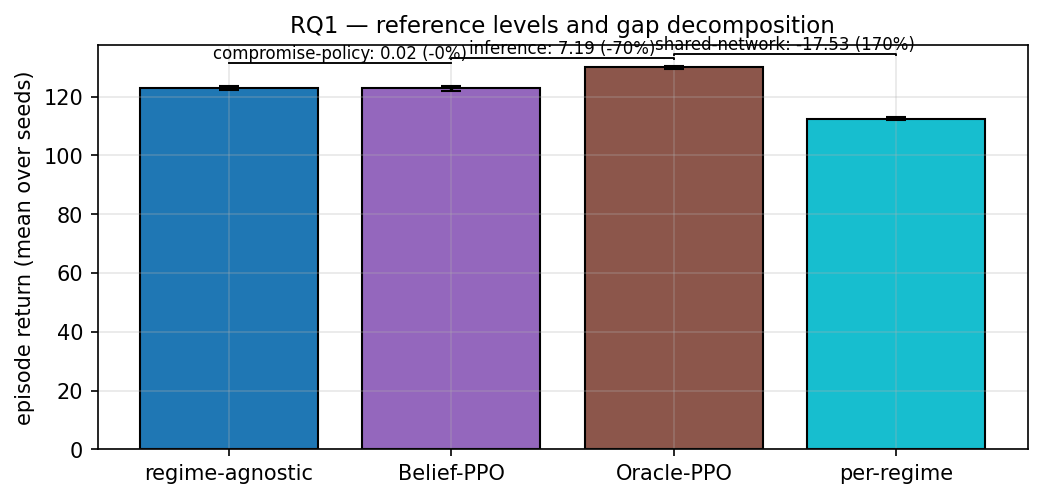
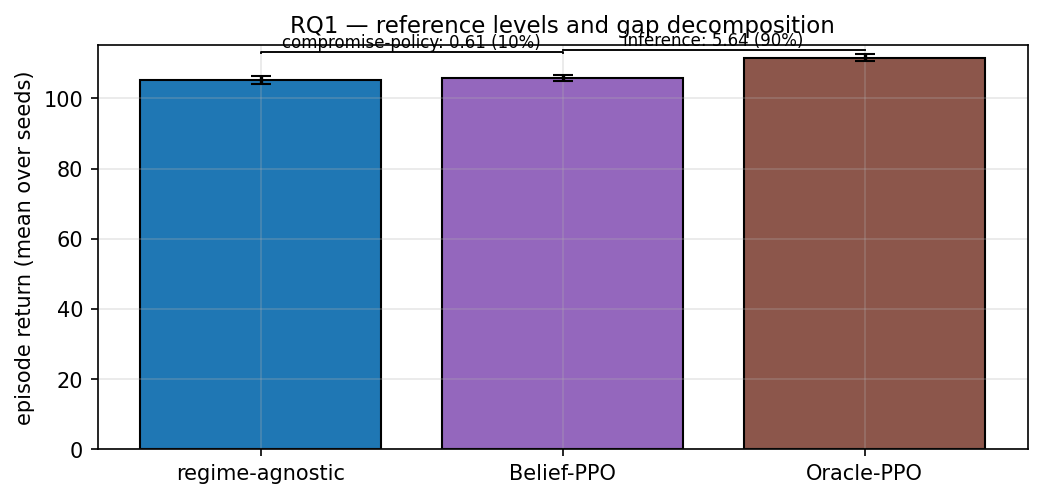
f

diff --git a/scripts/m3_belief_diagnostics.py b/scripts/m3_belief_diagnostics.py
@@ -1,0 +1,231 @@
+"""Diagnose why Belief-PPO ≈ Regime-agnostic PPO on E_final (M3 finding).
+
+Three tests, cheapest first:
+
+  D1 — structural sanity: log obs/posterior shape and variability across
+       timesteps of a single rollout. Catch shape / concatenation bugs.
+
+  D3 — posterior informativeness: run many rollouts under a uniform
+       random policy, compute posterior entropy statistics and regime
+       classification accuracy (argmax posterior vs true regime). If the
+       posterior rarely sharpens below uniform, no method can exploit it.
+
+  D2 — training ablation: train Belief-PPO with belief replaced by the
+       constant initial prior at every step. If the ablated return
+       matches unablated return, the network is ignoring the belief
+       (bug). Only run if D3 says the posterior is actually informative.
+
+Written to run on the current E_final (`experiments/configs/envs/e_final.yaml`)
+with no retraining for D1+D3. D2 retrains briefly.
+
+Usage:
+  uv run python -m scripts.m3_belief_diagnostics
+"""
+from __future__ import annotations
+
+import json
+import time
+from pathlib import Path
+
+import jax
+import jax.numpy as jnp
+import numpy as np
+
+from beliefs.hmm_posterior import entropy as belief_entropy
+from envs.mm_reduced import MMReducedEnv
+from envs.wrappers.belief_obs import BeliefObsEnv
+from training.config import _load_yaml_with_extends
+
+REPO_ROOT = Path(__file__).resolve().parent.parent
+ENV_CFG = REPO_ROOT / "experiments" / "configs" / "envs" / "e_final.yaml"
+OUT_PATH = REPO_ROOT / "results" / "milestones" / "M3" / "belief_diagnostics.json"
+
+
+def _build_env() -> BeliefObsEnv:
+    raw = _load_yaml_with_extends(ENV_CFG)
+    params = raw["env"]["params"]
+    inner = MMReducedEnv(**params)
+    return BeliefObsEnv(inner=inner)
+
+
+def _random_rollout(env: BeliefObsEnv, seed: int, n_envs: int, n_steps: int):
+    """Uniform random policy rollout. Returns belief [T, N, R] and true regime [T, N]."""
+    key = jax.random.PRNGKey(seed)
+    reset_keys = jax.random.split(key, n_envs)
+    states, _ = jax.vmap(env.reset)(reset_keys)
+
+    n_actions = env.n_actions
+
+    def step_one(carry, _):
+        states, key = carry
+        key, sub = jax.random.split(key)
+        act_key, step_key = jax.random.split(sub)
+        actions = jax.random.randint(
+            act_key, shape=(n_envs,), minval=0, maxval=n_actions
+        )
+        step_keys = jax.random.split(step_key, n_envs)
+        new_states, _obs, _r, _d, info = jax.vmap(env.step)(states, actions, step_keys)
+        belief = info["belief"]  # [N, R]
+        regime = new_states["regime"]  # [N]
+        return (new_states, key), (belief, regime)
+
+    _, (beliefs, regimes) = jax.lax.scan(
+        step_one, (states, key), None, length=n_steps
+    )
+    return np.asarray(beliefs), np.asarray(regimes)  # [T, N, R], [T, N]
+
+
+def d1_structural(env: BeliefObsEnv) -> dict:
+    """Log obs/posterior shape and variability of one rollout."""
+    inner = env.inner
+    key = jax.random.PRNGKey(0)
+    state, obs = env.reset(key)
+    belief_dim = inner.n_regimes
+    inv_dim = inner.obs_size
+
+    obs_seq = [np.asarray(obs)]
+    belief_seq = [np.asarray(state["belief"])]
+    for t in range(16):
+        key, sub = jax.random.split(key)
+        act_key, step_key = jax.random.split(sub)
+        a = jax.random.randint(act_key, (), 0, env.n_actions)
+        state, obs, _r, _d, info = env.step(state, a, step_key)
+        obs_seq.append(np.asarray(obs))
+        belief_seq.append(np.asarray(info["belief"]))
+
+    obs_seq = np.stack(obs_seq)  # [17, obs_size]
+    belief_seq = np.stack(belief_seq)  # [17, R]
+
+    # Does the belief portion of obs match the tracked belief?
+    obs_belief_portion = obs_seq[:, inv_dim:]
+    match = bool(np.allclose(obs_belief_portion, belief_seq, atol=1e-6))
+
+    # Is the belief actually varying?
+    belief_var_per_dim = belief_seq.var(axis=0)
+    max_var = float(belief_var_per_dim.max())
+
+    return {
+        "obs_size": int(env.obs_size),
+        "inventory_dim": int(inv_dim),
+        "belief_dim": int(belief_dim),
+        "obs_layout_ok": match,
+        "belief_variance_max_across_17_steps": max_var,
+        "first_3_beliefs": belief_seq[:3].tolist(),
+        "initial_distribution": list(inner.initial_distribution),
+    }
+
+
+def d3_informativeness(env: BeliefObsEnv, n_envs: int = 512, n_steps: int = 128) -> dict:
+    """Posterior entropy + argmax-vs-truth accuracy under random policy."""
+    t0 = time.perf_counter()
+    beliefs, regimes = _random_rollout(env, seed=0, n_envs=n_envs, n_steps=n_steps)
+    elapsed = time.perf_counter() - t0
+
+    ent = np.asarray(belief_entropy(jnp.asarray(beliefs)))  # [T, N]
+    uniform_ent = float(np.log(env.inner.n_regimes))
+
+    # Per-step entropy (averaged across envs), and overall distribution.
+    entropy_per_step = ent.mean(axis=1)  # [T]
+    entropy_flat = ent.reshape(-1)
+
+    # Argmax accuracy (posterior's most-likely regime vs true regime).
+    argmax_regime = beliefs.argmax(axis=-1)  # [T, N]
+    accuracy_per_step = (argmax_regime == regimes).mean(axis=1)  # [T]
+    accuracy_overall = float((argmax_regime == regimes).mean())
+
+    # Fraction of timesteps where posterior is "confident" (entropy < 0.5 * uniform).
+    confident_mask = ent < 0.5 * uniform_ent
+    frac_confident = float(confident_mask.mean())
+
+    # Per-regime mass under the posterior on timesteps matching each true regime.
+    n_reg = env.inner.n_regimes
+    per_regime_mass = []
+    for r in range(n_reg):
+        mask = regimes == r  # [T, N]
+        if mask.sum() == 0:
+            per_regime_mass.append(None)
+            continue
+        # Average posterior conditional on true regime being r.
+        b_given_r = beliefs[mask]  # [M, R]
+        per_regime_mass.append(b_given_r.mean(axis=0).tolist())
+
+    # Stationary fraction (how often each regime actually occurs in rollouts).
+    regime_fracs = [float((regimes == r).mean()) for r in range(n_reg)]
+
+    # Posterior precision: E[b_true_regime | true_regime]
+    # = average posterior probability the model assigns to the correct regime.
+    true_regime_prob_per_step = np.take_along_axis(
+        beliefs, regimes[..., None], axis=-1
+    ).squeeze(-1)  # [T, N]
+    avg_correct_prob = float(true_regime_prob_per_step.mean())
+
+    return {
+        "n_envs": n_envs,
+        "n_steps": n_steps,
+        "uniform_entropy": uniform_ent,
+        "entropy_overall_mean": float(entropy_flat.mean()),
+        "entropy_overall_min": float(entropy_flat.min()),
+        "entropy_overall_p25": float(np.percentile(entropy_flat, 25)),
+        "entropy_overall_p75": float(np.percentile(entropy_flat, 75)),
+        "entropy_decay_fraction_from_uniform": float(
+            1.0 - entropy_flat.mean() / uniform_ent
+        ),
+        "entropy_by_step_first5": entropy_per_step[:5].tolist(),
+        "entropy_by_step_last5": entropy_per_step[-5:].tolist(),
+        "frac_confident_timesteps": frac_confident,
+        "argmax_accuracy_overall": accuracy_overall,
+        "argmax_accuracy_first5": accuracy_per_step[:5].tolist(),
+        "argmax_accuracy_last5": accuracy_per_step[-5:].tolist(),
+        "avg_prob_assigned_to_true_regime": avg_correct_prob,
+        "regime_fractions_under_random_policy": regime_fracs,
+        "posterior_conditional_on_true_regime": per_regime_mass,
+        "elapsed_seconds": elapsed,
+    }
+
+
+def main() -> int:
+    print("[diag] building env ...", flush=True)
+    env = _build_env()
+
+    print("[diag] D1 — structural sanity ...", flush=True)
+    d1 = d1_structural(env)
+    print(
+        f"[diag]   obs_size={d1['obs_size']} "
+        f"(inv={d1['inventory_dim']} + belief={d1['belief_dim']})  "
+        f"obs_layout_ok={d1['obs_layout_ok']}  "
+        f"max_belief_variance_17steps={d1['belief_variance_max_across_17_steps']:.4f}",
+        flush=True,
+    )
+
+    print("[diag] D3 — posterior informativeness (random policy, 512 × 128) ...", flush=True)
+    d3 = d3_informativeness(env)
+    print(
+        f"[diag]   uniform_entropy={d3['uniform_entropy']:.3f}  "
+        f"mean_entropy={d3['entropy_overall_mean']:.3f}  "
+        f"(decay={d3['entropy_decay_fraction_from_uniform']*100:.1f}% from uniform)",
+        flush=True,
+    )
+    print(
+        f"[diag]   argmax_accuracy={d3['argmax_accuracy_overall']:.3f}  "
+        f"avg_prob_assigned_to_true_regime={d3['avg_prob_assigned_to_true_regime']:.3f}  "
+        f"frac_confident(entropy<0.5·uniform)={d3['frac_confident_timesteps']:.3f}",
+        flush=True,
+    )
+    print(
+        f"[diag]   regime_fracs={['%.2f' % x for x in d3['regime_fractions_under_random_policy']]}  "
+        f"entropy_first5={['%.2f' % x for x in d3['entropy_by_step_first5']]}  "
+        f"entropy_last5={['%.2f' % x for x in d3['entropy_by_step_last5']]}",
+        flush=True,
+    )
+
+    out = {"D1_structural": d1, "D3_informativeness": d3}
+    OUT_PATH.parent.mkdir(parents=True, exist_ok=True)
+    with open(OUT_PATH, "w") as f:
+        json.dump(out, f, indent=2)
+
+    print(f"[diag] OK | output={OUT_PATH}", flush=True)
+    return 0
+
+
+if __name__ == "__main__":
+    raise SystemExit(main())

diff --git a/scripts/make_milestone.py b/scripts/make_milestone.py
@@ -679,12 +679,9 @@ def make_m3() -> dict:
         "env_version": "e_final",
         "ordering_valid": ordering_valid,
         "all_converged": all_converged,
-        "shared_network_cost_is_measurable": shared_network_measurable,
         "total_gap_absolute": total_gap["absolute"],
-        "shared_network_cost_absolute": shared_network["absolute"],
         "inference_cost_absolute": inference["absolute"],
         "compromise_policy_cost_absolute": compromise_policy["absolute"],
-        "shared_network_cost_fraction": shared_network["fraction_of_total"],
         "inference_cost_fraction": inference["fraction_of_total"],
         "compromise_policy_cost_fraction": compromise_policy["fraction_of_total"],
         "ordering_details": ordering_details,
@@ -760,7 +757,6 @@ def main() -> int:
         "env_version",
         "ordering_valid",
         "all_converged",
-        "shared_network_cost_is_measurable",
         "total_gap_absolute",
     ):
         if k in stats:

diff --git a/envs/wrappers/belief_obs.py b/envs/wrappers/belief_obs.py
@@ -24,6 +24,9 @@ from envs.mm_reduced import MMReducedEnv
 @dataclass(frozen=True)
 class BeliefObsEnv:
     inner: MMReducedEnv
+    # D2 ablation: if True, agent sees `initial_distribution` at every step.
+    # Internal belief tracking still runs so logging is unaffected.
+    constant_belief: bool = False
 
     @property
     def n_inventory_states(self) -> int:
@@ -46,6 +49,8 @@ class BeliefObsEnv:
         return self.inner.gamma
 
     def _augment(self, base_obs: chex.Array, belief: chex.Array) -> chex.Array:
+        if self.constant_belief:
+            belief = initial_belief(self.inner)
         return jnp.concatenate([base_obs, belief], axis=-1)
 
     def reset(self, key: chex.PRNGKey) -> tuple[chex.ArrayTree, chex.Array]:

diff --git a/training/train.py b/training/train.py
@@ -59,6 +59,10 @@ def _build_env(cfg: ExperimentConfig):
         return OracleObsEnv(inner=MMReducedEnv(**cfg.env.params))
     if cfg.env.name == "mm_reduced_belief":
         return BeliefObsEnv(inner=MMReducedEnv(**cfg.env.params))
+    if cfg.env.name == "mm_reduced_belief_constant":
+        return BeliefObsEnv(
+            inner=MMReducedEnv(**cfg.env.params), constant_belief=True
+        )
     raise ValueError(f"unknown env: {cfg.env.name!r}")
 
 

diff --git a/docs/milestones/m3_env_decision.md b/docs/milestones/m3_env_decision.md
@@ -1,0 +1,93 @@
+# M3 env-choice decision (paused)
+
+**Status:** open. Pick up here before continuing M3 / starting M4.
+
+## Where we are
+
+M3 was run on `E_final = e3_asymmetric`. Reference levels converged and the
+ordering is valid, but the empirical compromise-policy cost is ~0 and the
+belief signal adds nothing on top of a constant prior.
+
+```
+regime_agnostic_ppo : 105.23   [104.10, 106.27]
+belief_ppo          : 105.85   [104.99, 106.70]
+oracle_ppo          : 111.49   [110.55, 112.68]
+
+inference_cost           : 5.64   CI [4.64, 6.64]      (90.2% of total gap)
+compromise_policy_cost   : 0.61   CI [-0.33, 1.46]     (9.8%, crosses 0)
+total_gap                : 6.25
+```
+
+Source: `results/milestones/M3/stats_M3_reference_levels.json`.
+
+## Diagnostics run (`scripts/m3_belief_diagnostics.py` + D2 ablation)
+
+- **D1 (structural):** PASS. obs_size=14 = 11 inv + 3 belief; belief portion
+  of obs matches tracked belief exactly; belief varies across steps.
+- **D3 (informativeness, random policy):** STRONG. uniform entropy 1.099,
+  mean entropy 0.420 (62% decay); argmax accuracy 85.4%; avg probability
+  assigned to true regime 77.6%; 70.8% of timesteps "confident" (entropy <
+  0.5 × uniform). Output: `results/milestones/M3/belief_diagnostics.json`.
+- **D2 (retraining ablation, `mm_reduced_belief_constant` env):** DECISIVE.
+  Replacing the time-varying posterior with the stationary prior at every
+  step leaves return *unchanged*.
+  ```
+  real belief-PPO      : 105.85
+  constant-belief-PPO  : 105.88
+  regime-agnostic-PPO  : 105.23
+
+  real − const : mean −0.04   CI [−0.76, +0.68]   indistinguishable
+  const − agn  : mean +0.65   CI [+0.19, +1.31]   significant
+  real − agn   : mean +0.61   CI [−0.36, +1.46]   not significant
+  ```
+  The 0.6-unit lift over agnostic is a pure capacity effect from 3 extra
+  constant input dims, **not** belief content.
+
+## Diagnosis
+
+- Not a wiring bug. `envs/wrappers/belief_obs.py` feeds real time-varying
+  posteriors; D1 confirms layout; const vs real obs differ per-step.
+- Not a posterior-quality bug. D3 shows the analytical HMM posterior is
+  genuinely informative under a random rollout policy.
+- **E_final's compromise policy is near-optimal.** Oracle beats it by 6.3
+  units, but that gap comes from a crisp one-hot that PPO can gate actions
+  on; an 85%-sharp belief distribution gets smeared through the tanh MLP
+  and the policy cannot convert it into extra reward.
+
+## Decision
+
+### Option A — switch to E4 (recommended)
+
+`experiments/configs/envs/e4_deep_wide.yaml` already exists. VI sweep
+projects total gap 59.6 (vs E_final 20.96), compromise_cost 55.3 (vs
+12.9). That is the only way to get a meaningful empirical RQ1
+decomposition: if compromise_cost is ~0 there is nothing for M5's meta-RL
+methods to close.
+
+Sub-steps if A:
+1. Run R1–R4 validation on E4 (~30 s) before spending 40 min on retrain.
+2. Retrain all three M3 reference levels on E4 (~40 min: 3 methods × 5
+   seeds × 200 iter @ 512 envs ≈ 14 min each, serial).
+3. Update `E_final` symlink to `e4_deep_wide.yaml`.
+4. Update CLAUDE.md "Current env version" block.
+5. Keep E3 available as the easy end of M6's difficulty sweep.
+
+### Option B — stay on E_final
+
+M3 technically passes JSON criteria and can be tagged. But the thesis
+narrative for M5 becomes "meta-RL methods close almost none of the gap,
+because there is almost no compromise-policy cost to close on this env",
+which is not what RQ2 wants to claim. RQ1's decomposition itself becomes
+a footnote: 90% inference cost, ~0% compromise cost.
+
+## Recommendation
+
+A, validate E4 against R1–R4 first, keep E3 as the M6-easy datapoint.
+
+## To resume
+
+1. Read this file.
+2. Read `results/milestones/M3/stats_M3_reference_levels.json` and
+   `results/milestones/M3/belief_diagnostics.json` to confirm numbers
+   haven't changed.
+3. Ask the user A or B; if A, start with R1–R4 on E4.

diff --git a/docs/methodology.md b/docs/methodology.md
@@ -51,7 +51,7 @@ The 2×2×2 factorial has 3 main effects and 4 interactions. Main effects are th
 
 Before any M5/M6 experiment runs, these hypotheses are committed in writing. Results on these are the "primary" findings; everything else is exploratory and labeled as such in the thesis.
 
-**RQ1 primary hypothesis.** The four reference levels order as regime-agnostic < belief-PPO ≤ oracle-PPO ≤ per-regime PPO, with non-zero gaps between the strict inequalities. Pre-committed: if belief-PPO ≈ oracle-PPO (CI overlap), inference cost is trivially small and the RQ2 motivation is weaker.
+**RQ1 primary hypothesis.** The three reference levels order as regime-agnostic < belief-PPO ≤ oracle-PPO, with a non-zero gap between regime-agnostic and oracle. Pre-committed: if belief-PPO ≈ oracle-PPO (CI overlap), inference cost is trivially small and the RQ2 motivation is weaker.
 
 **RQ2 primary hypotheses (pre-committed before running M5):**
 1. VariBAD's final return > regime-agnostic PPO's final return (paired Wilcoxon, Holm-corrected).
